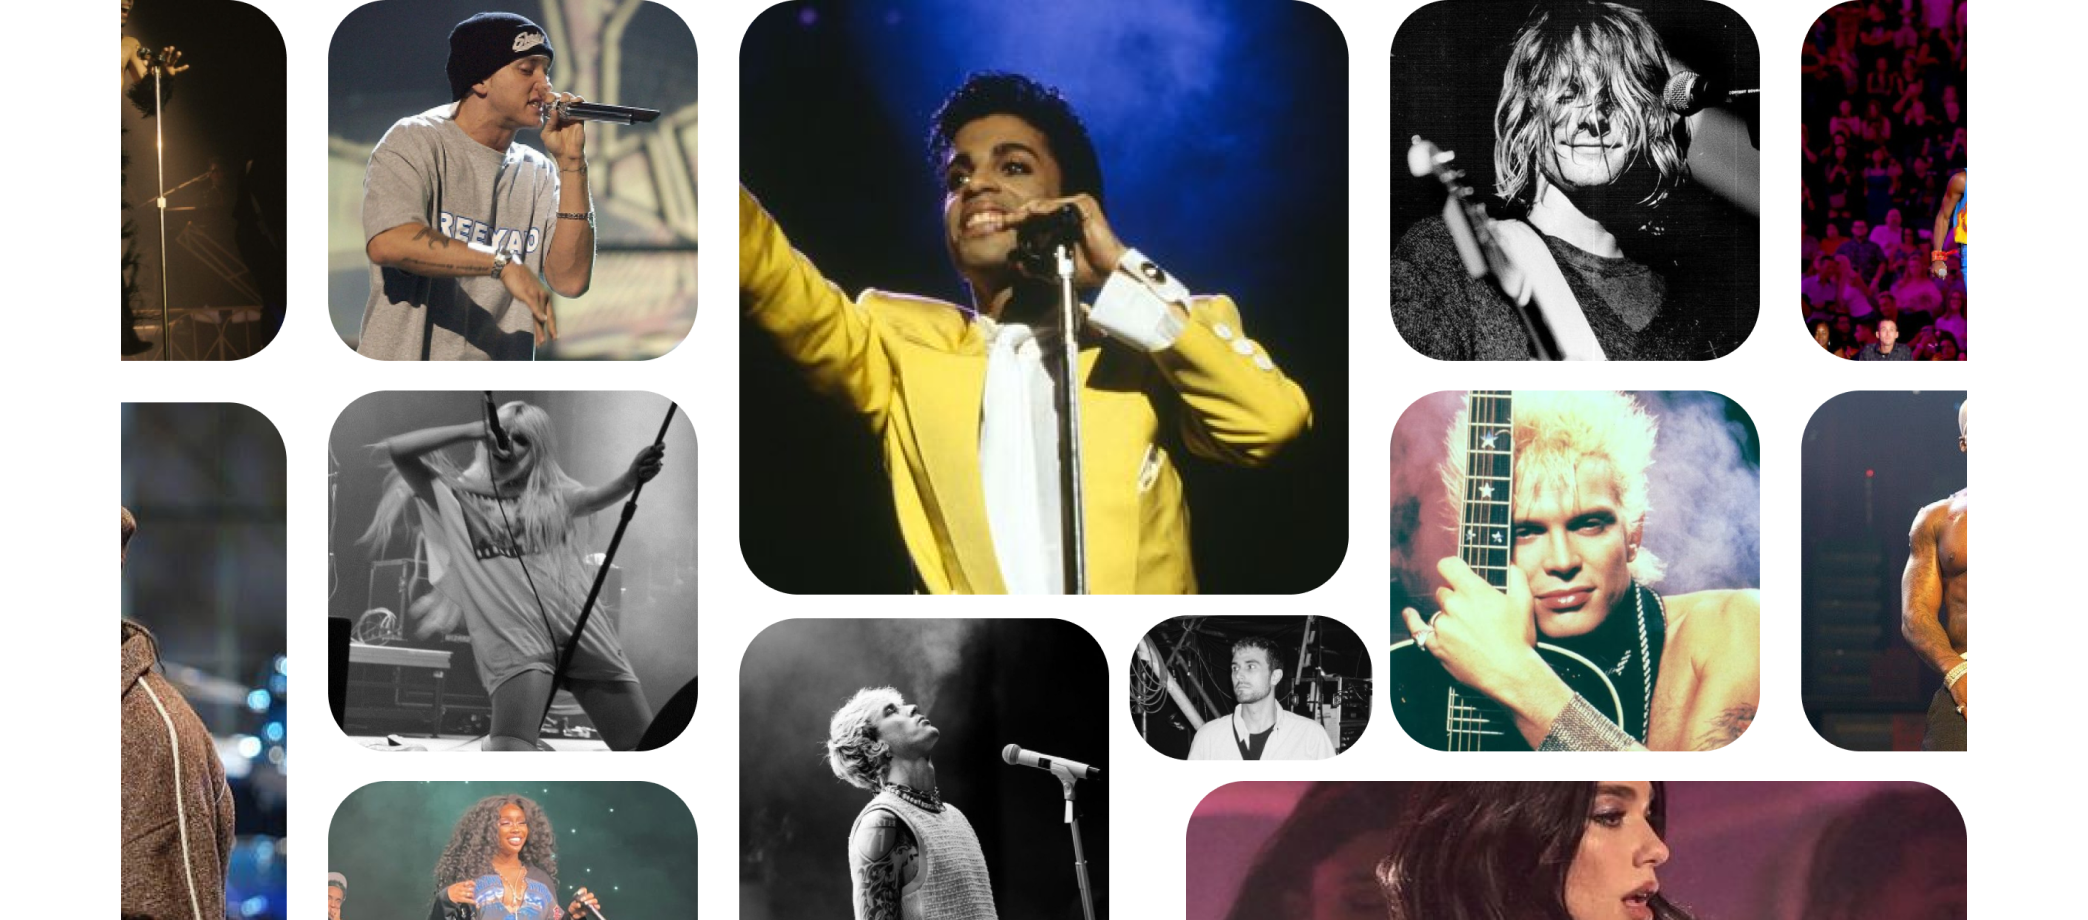
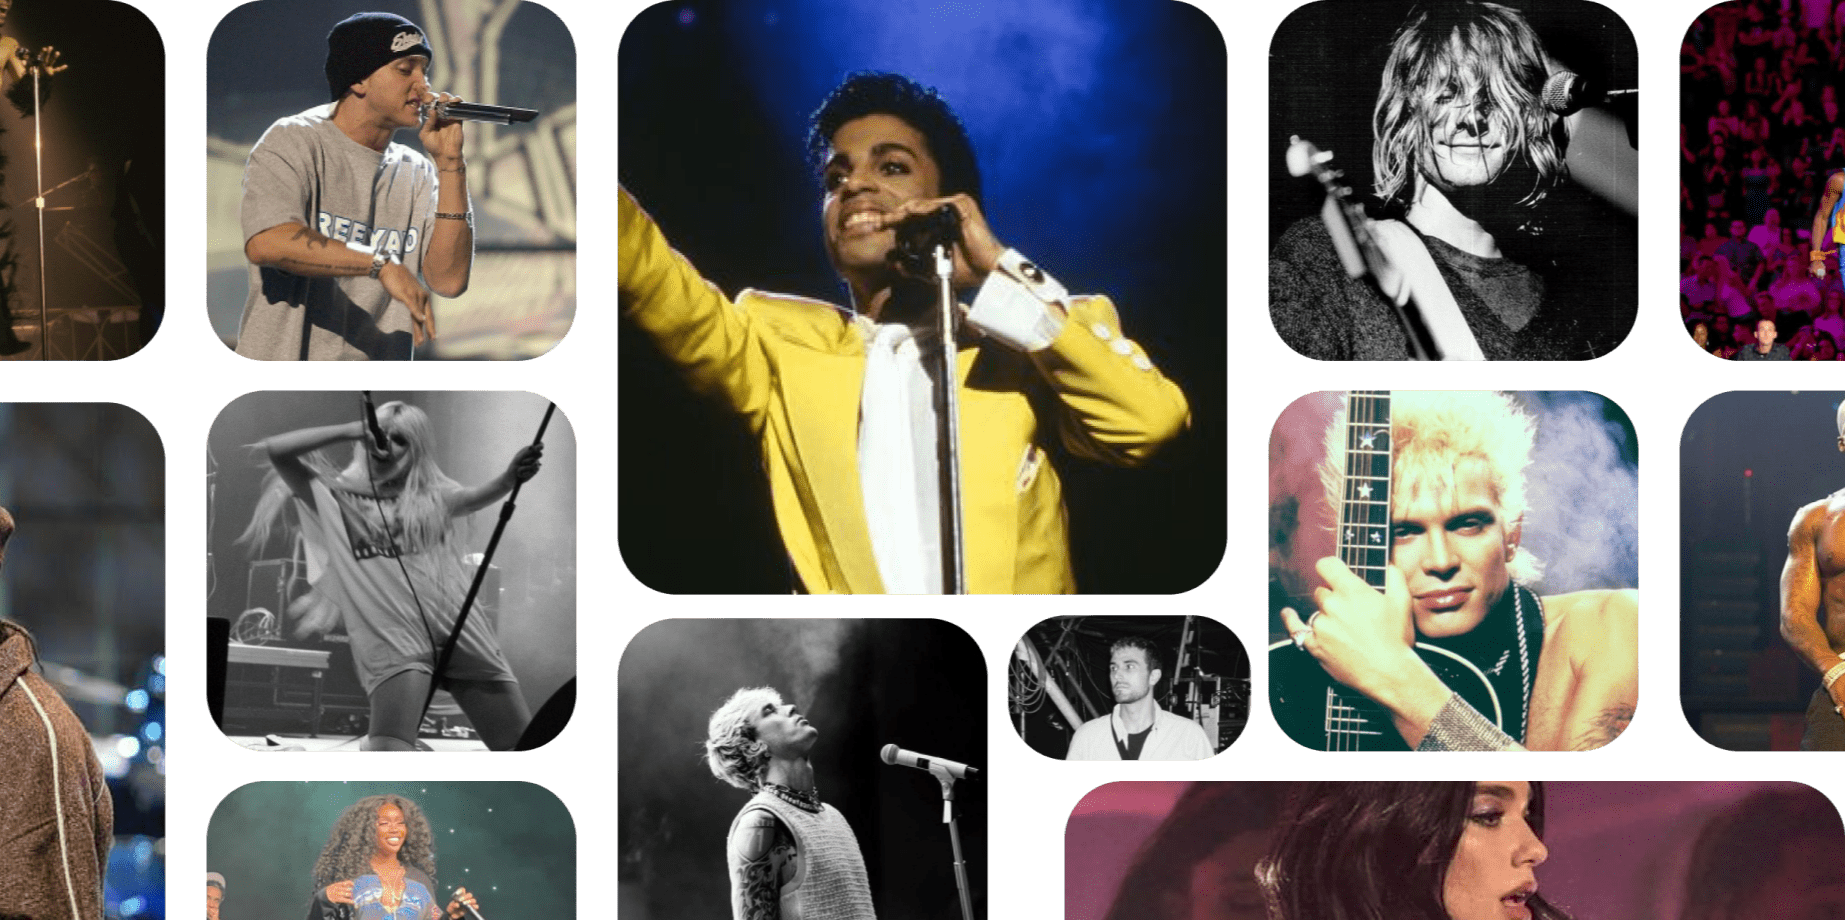
Arreglando imagenes

diff --git a/components/home/HomeConnect/connectaudiences.jsx b/components/home/HomeConnect/connectaudiences.jsx
@@ -1,19 +1,22 @@
 import React from 'react'
 
+import Image from 'next/image'
+import Audiencia from './img/audiencia.webp'
 import ConnectNow from '../../button/connectNow'
 
-import Image from 'next/image'
 
 const ConnectAudiences = () => {
   return (
     <div className='gradiente rounded-5xl p-0.5'>
-        <div className='flex flex-col items-center h-[500px] overflow-hidden rounded-5xl bg-white'>
+        <div className='flex flex-col items-center h-[500px] rounded-5xl bg-white'>
             <div className='text-center my-10 px-5'>
                 <p className='nordique-semibold text-xl lowercase'>Connect with audiences and launch your music</p>
                 <p className='w-4/5 mx-auto my-3'>We provide publishing services to help producers, writers, and artists become profitable. Our musical universe is waiting for you to launch your career to stardom.</p>
                 <ConnectNow info="Join now" />
             </div>
-            <div className='w-full h-full bg-[url("../../components/home/HomeConnect/img/audiencia.webp")] bg-center bg-cover bg-no-repeat'></div>
+
+            {/* <div className='w-full h-full bg-[url("../../components/home/HomeConnect/img/audiencia.webp")] bg-center bg-cover bg-no-repeat'></div> */}
+            <Image className='h-full rounded-b-5xl' src={Audiencia} />
         </div>
     </div>
   )

diff --git a/components/home/HomeMusic/homemusiccard.jsx b/components/home/HomeMusic/homemusiccard.jsx
@@ -5,6 +5,7 @@ import HomeMusicCardTable from './homemusiccardtable'
 
 import { useState, useRef, useEffect } from 'react'
 
+import BgLine from './img/BgLine.png'
 import CardImage from './img/CardImage.png'
 
 import GottaFeelingIcon from './songIcon/iGottaFeelingIcon.jpg'
@@ -93,7 +94,9 @@ const HomeMusicCard = () => {
     <div className=''>
       <div className='gradiente rounded-5xl p-0.5'>
         <div className='overflow-hidden pt-5 pb-3 bg-white flex flex-col gap-3 rounded-5xl'>
-            <div className='flex flex-col items-center bg-[url("../../components/home/HomeMusic/img/BgLine.png")] bg-contain bg-center bg-no-repeat'>
+            <div className='flex flex-col items-center'>
+              <Image width={476} className='absolute mt-10 hidden md:block' src={BgLine} />
+              <Image width={351} className='absolute mt-10 md:hidden' src={BgLine} />
               <div className='gradiente w-fit rounded-full p-1 relative'>
                 <Image height={224} className='rounded-full' src={currentSong ? currentSong.icon : CardImage} alt='Image card' />
                 <div className='flex items-center justify-center gap-28 absolute top-1/2 left-1/2 transform -translate-x-1/2 -translate-y-1/2'>

diff --git a/components/home/HomeMusic/homemusic.jsx b/components/home/HomeMusic/homemusic.jsx
@@ -6,10 +6,10 @@ import HomeMusicCard from './homemusiccard'
 const HomeMusic = () => {
 
   return (
-    <div className='grid grid-cols-[355px] sm:grid-cols-[400px] md:grid-cols-[500px] lg:grid-cols-[500px_480px] items-center justify-around gap-10 lg:gap-0'>
+    <div className='grid grid-cols-[355px] md:grid-cols-[480px] lg:grid-cols-[500px_480px] items-center justify-around gap-10 lg:gap-0'>
         <div className='flex flex-col items-center lg:items-start gap-2'>
             <h3 className='text-center lg:text-start nordique-bold lowercase px-0.5 music-title-gradient text-6xl md:h-32'>These are some songs we made</h3>
-            <p className='text-center w-64 lg:w-fit'>Here is some of the work weve done with huge brands and artists.</p>
+            <p className='text-center w-64 md:w-fit'>Here is some of the work weve done with huge brands and artists.</p>
             <div>
               <GetStarted info='sing up' />  
             </div>
